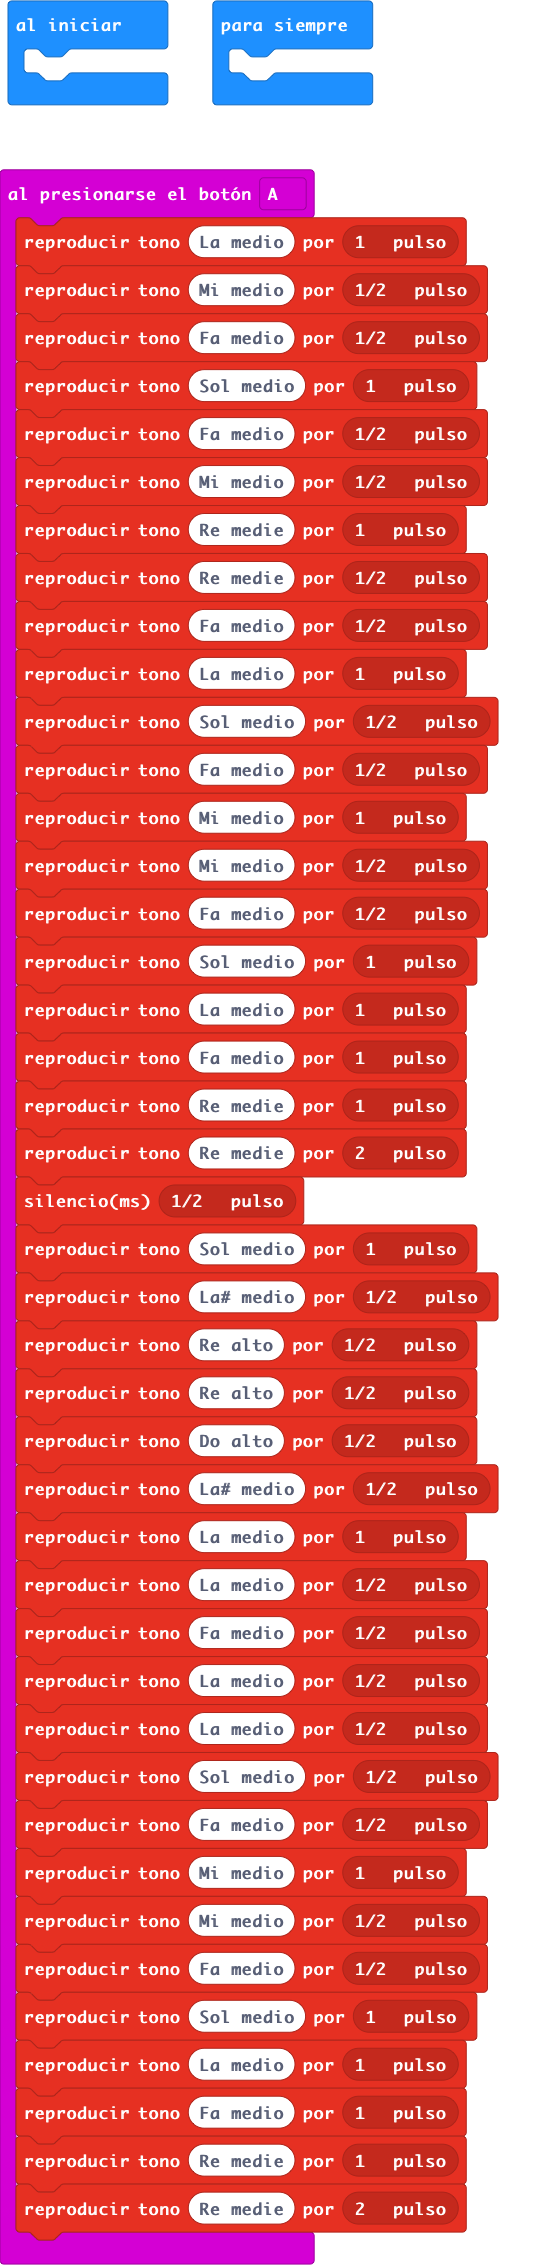
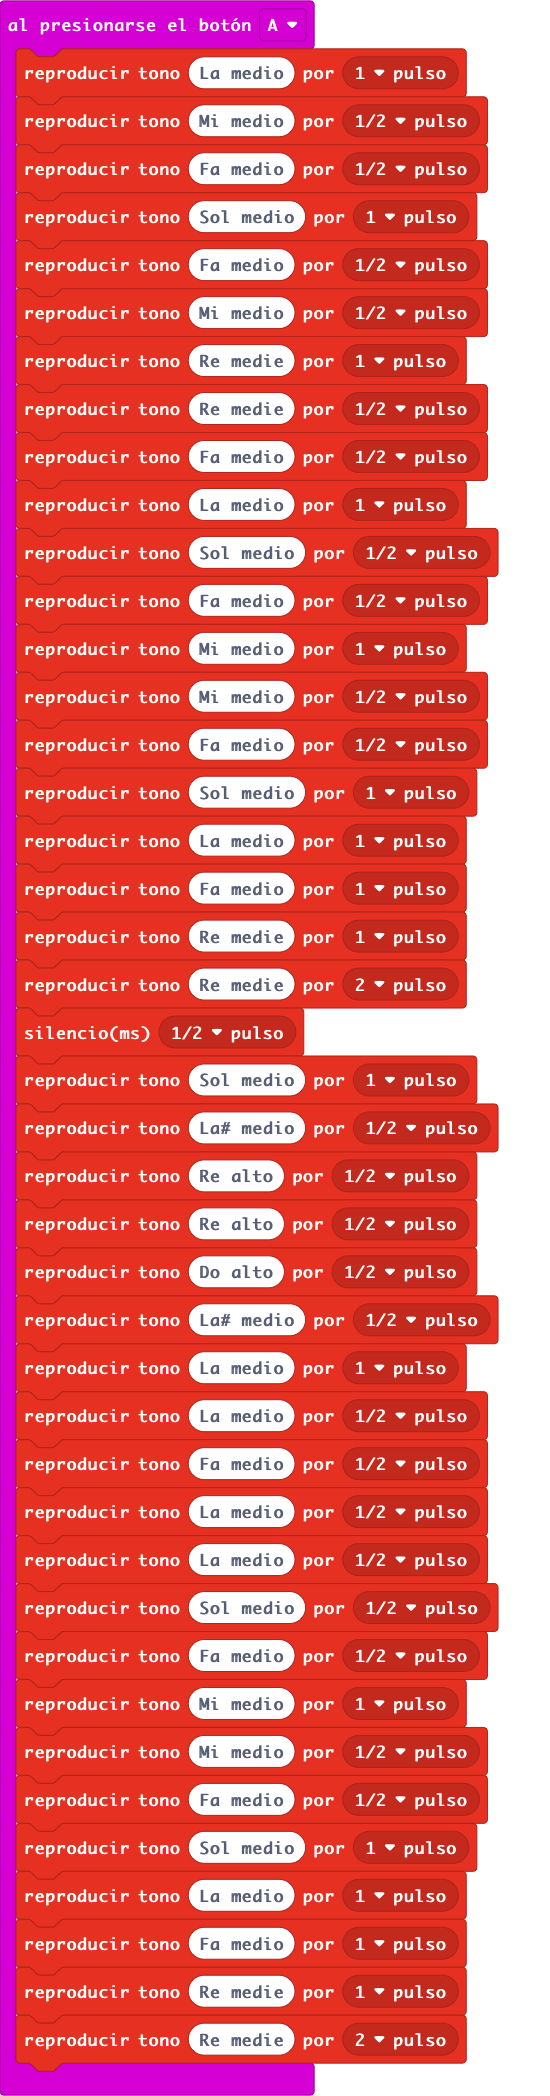
Actualizar main.blocks, main.ts

diff --git a/main.ts b/main.ts
@@ -42,6 +42,3 @@ input.onButtonPressed(Button.A, function () {
     music.playTone(294, music.beat(BeatFraction.Whole))
     music.playTone(294, music.beat(BeatFraction.Double))
 })
-basic.forever(function () {
-	
-})
